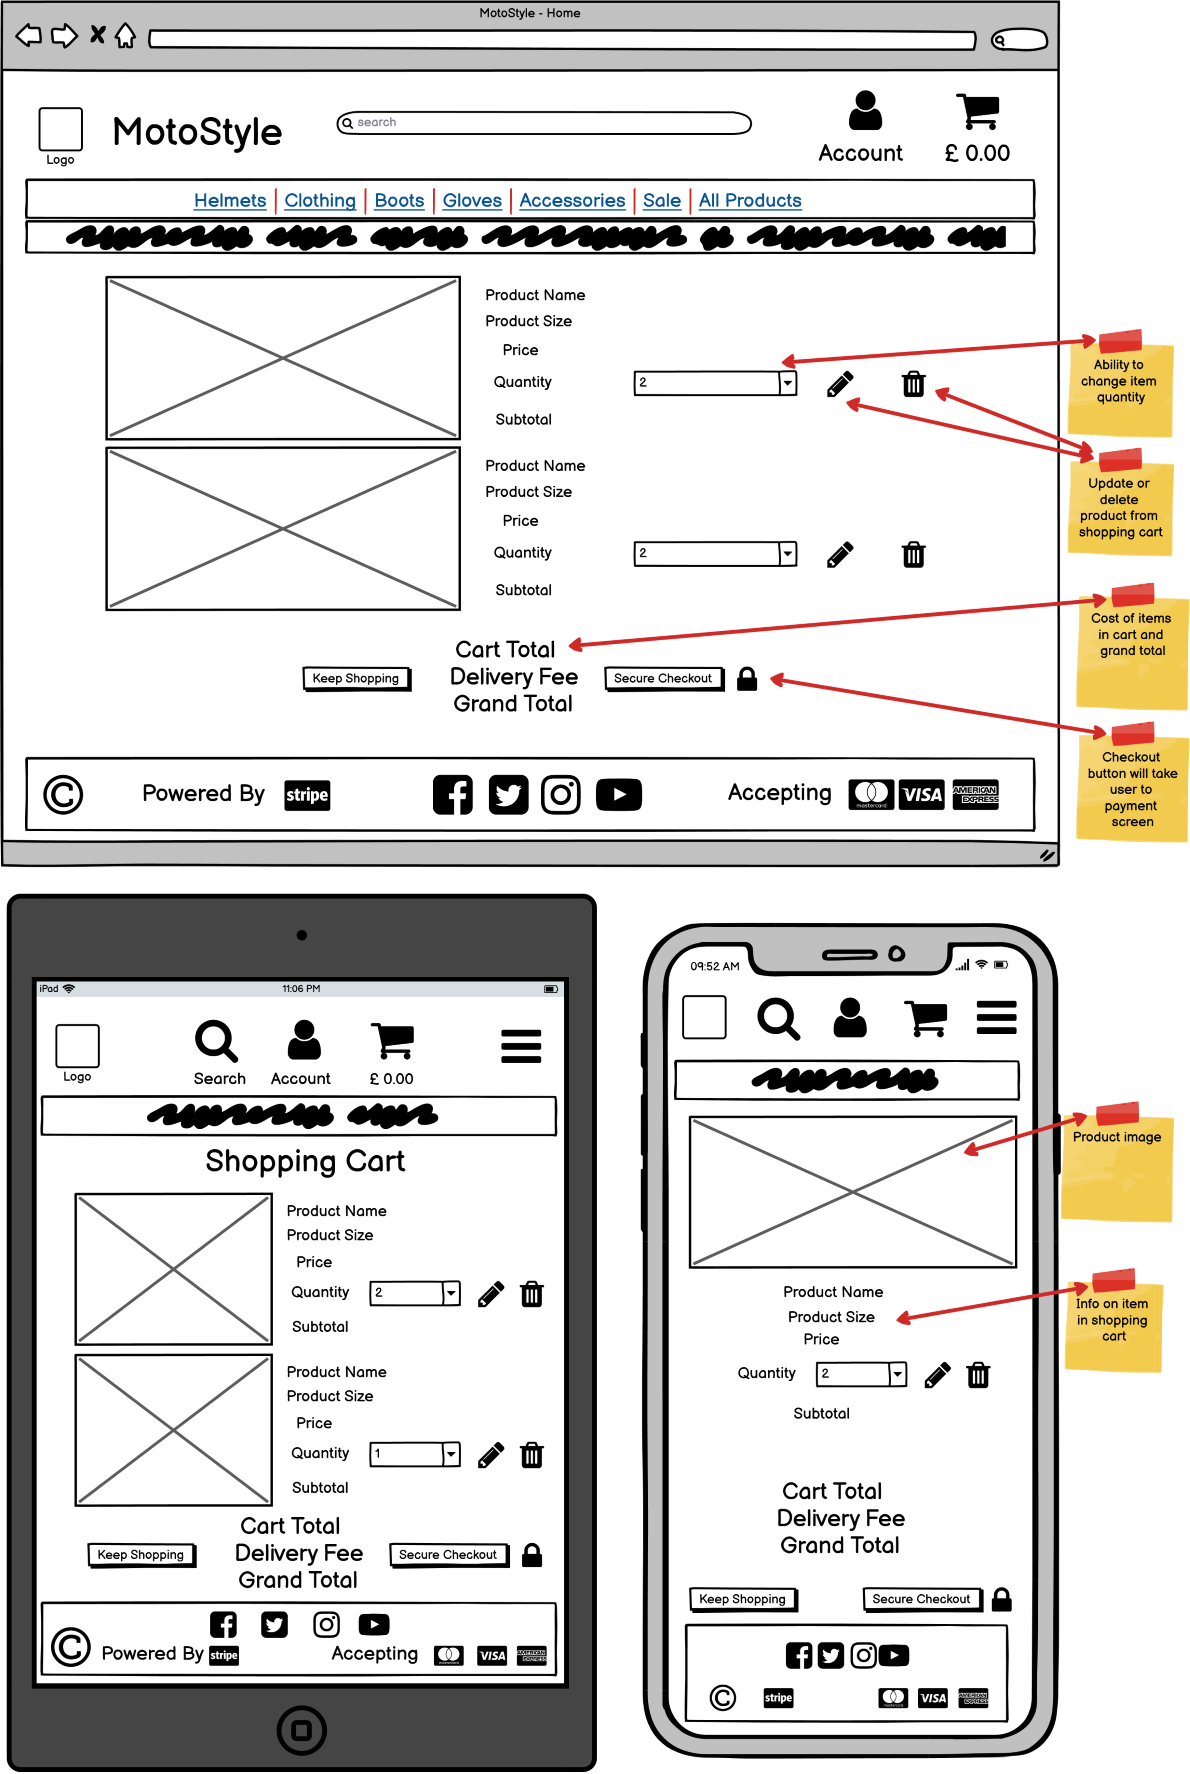
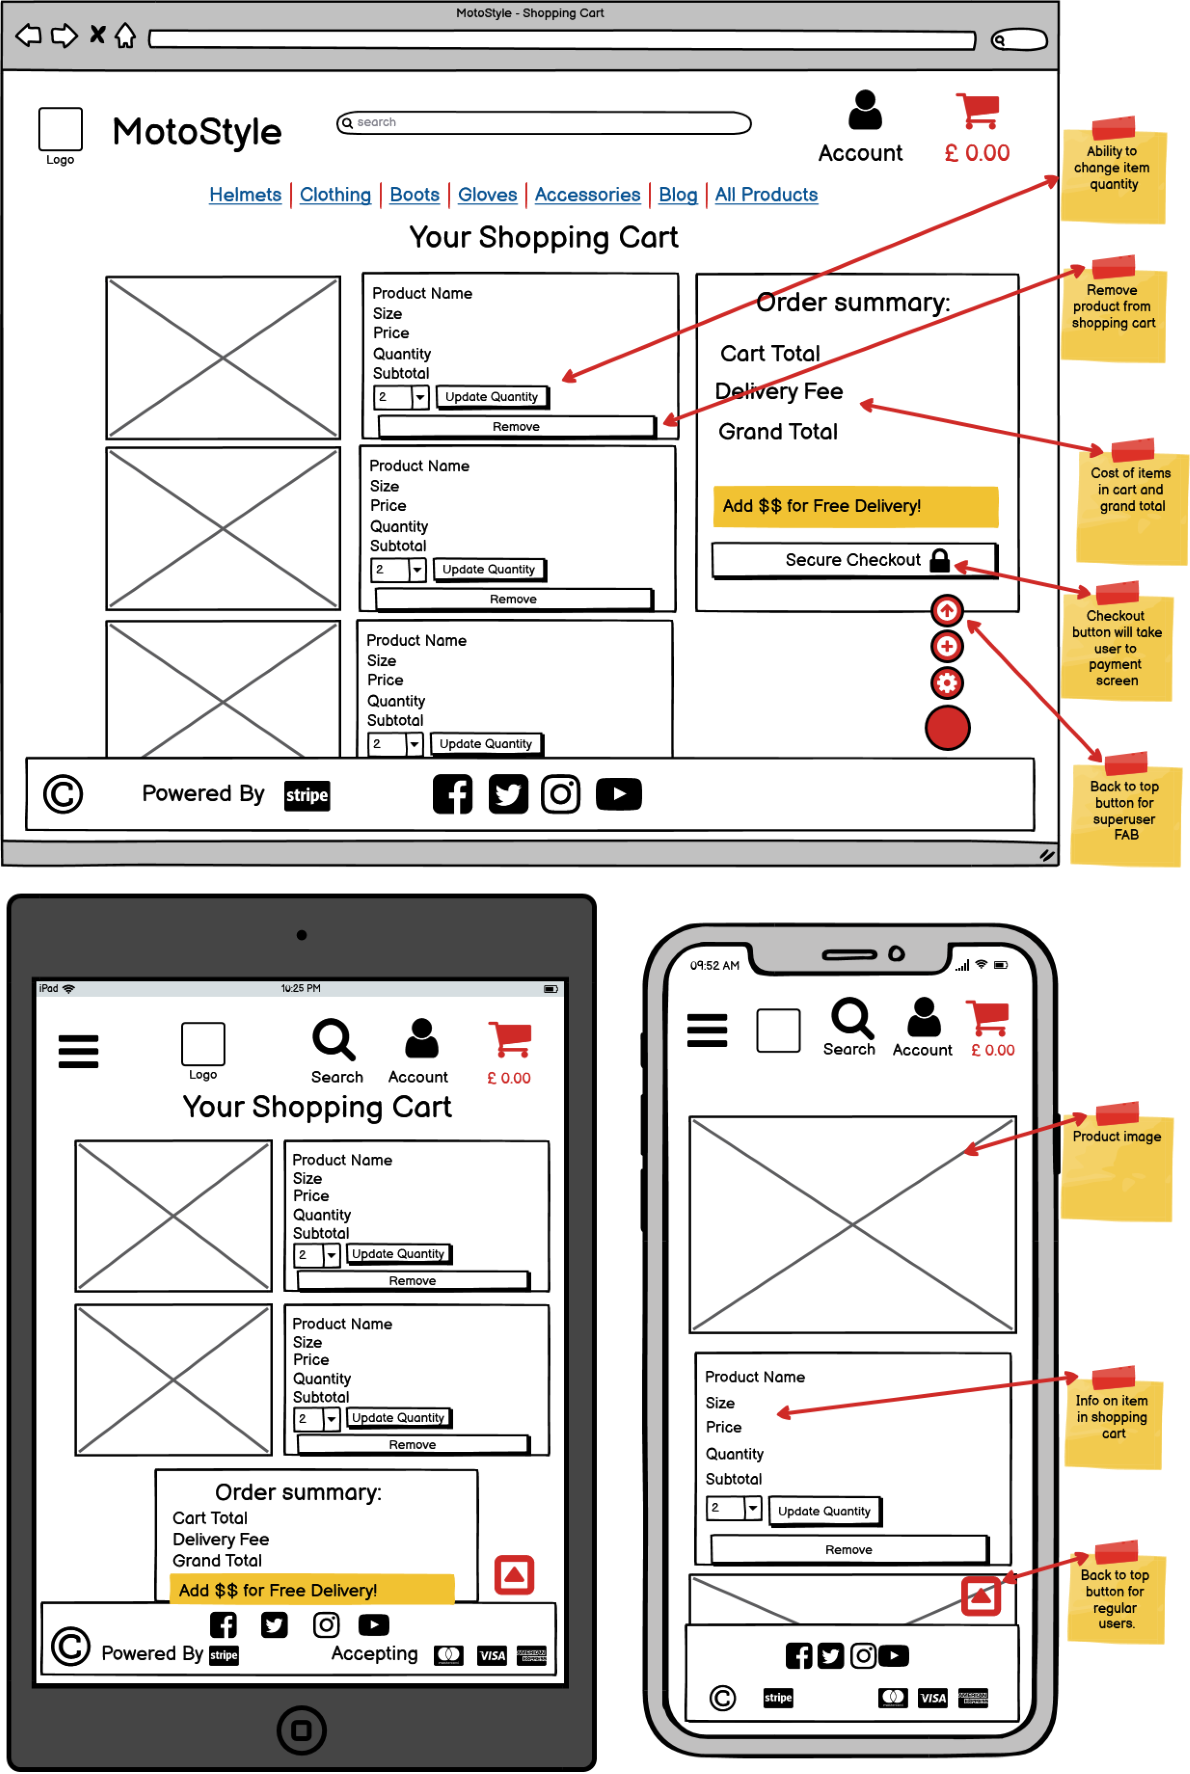
Update(docs): Shopping cart view wireframes

diff --git a/README.md b/README.md
@@ -387,7 +387,7 @@ Database schema was generated with the Django extension [Graph Models](https://d
 <details>
   <summary> (Expand) Shopping Cart Page Wireframes.</summary>
 
-![Shopping Cart Page Wireframes](docs/wireframes/add_item_page.png)
+![Shopping Cart Page Wireframes](docs/wireframes/shopping_cart_view.png)
 </details>
 
 <details>
